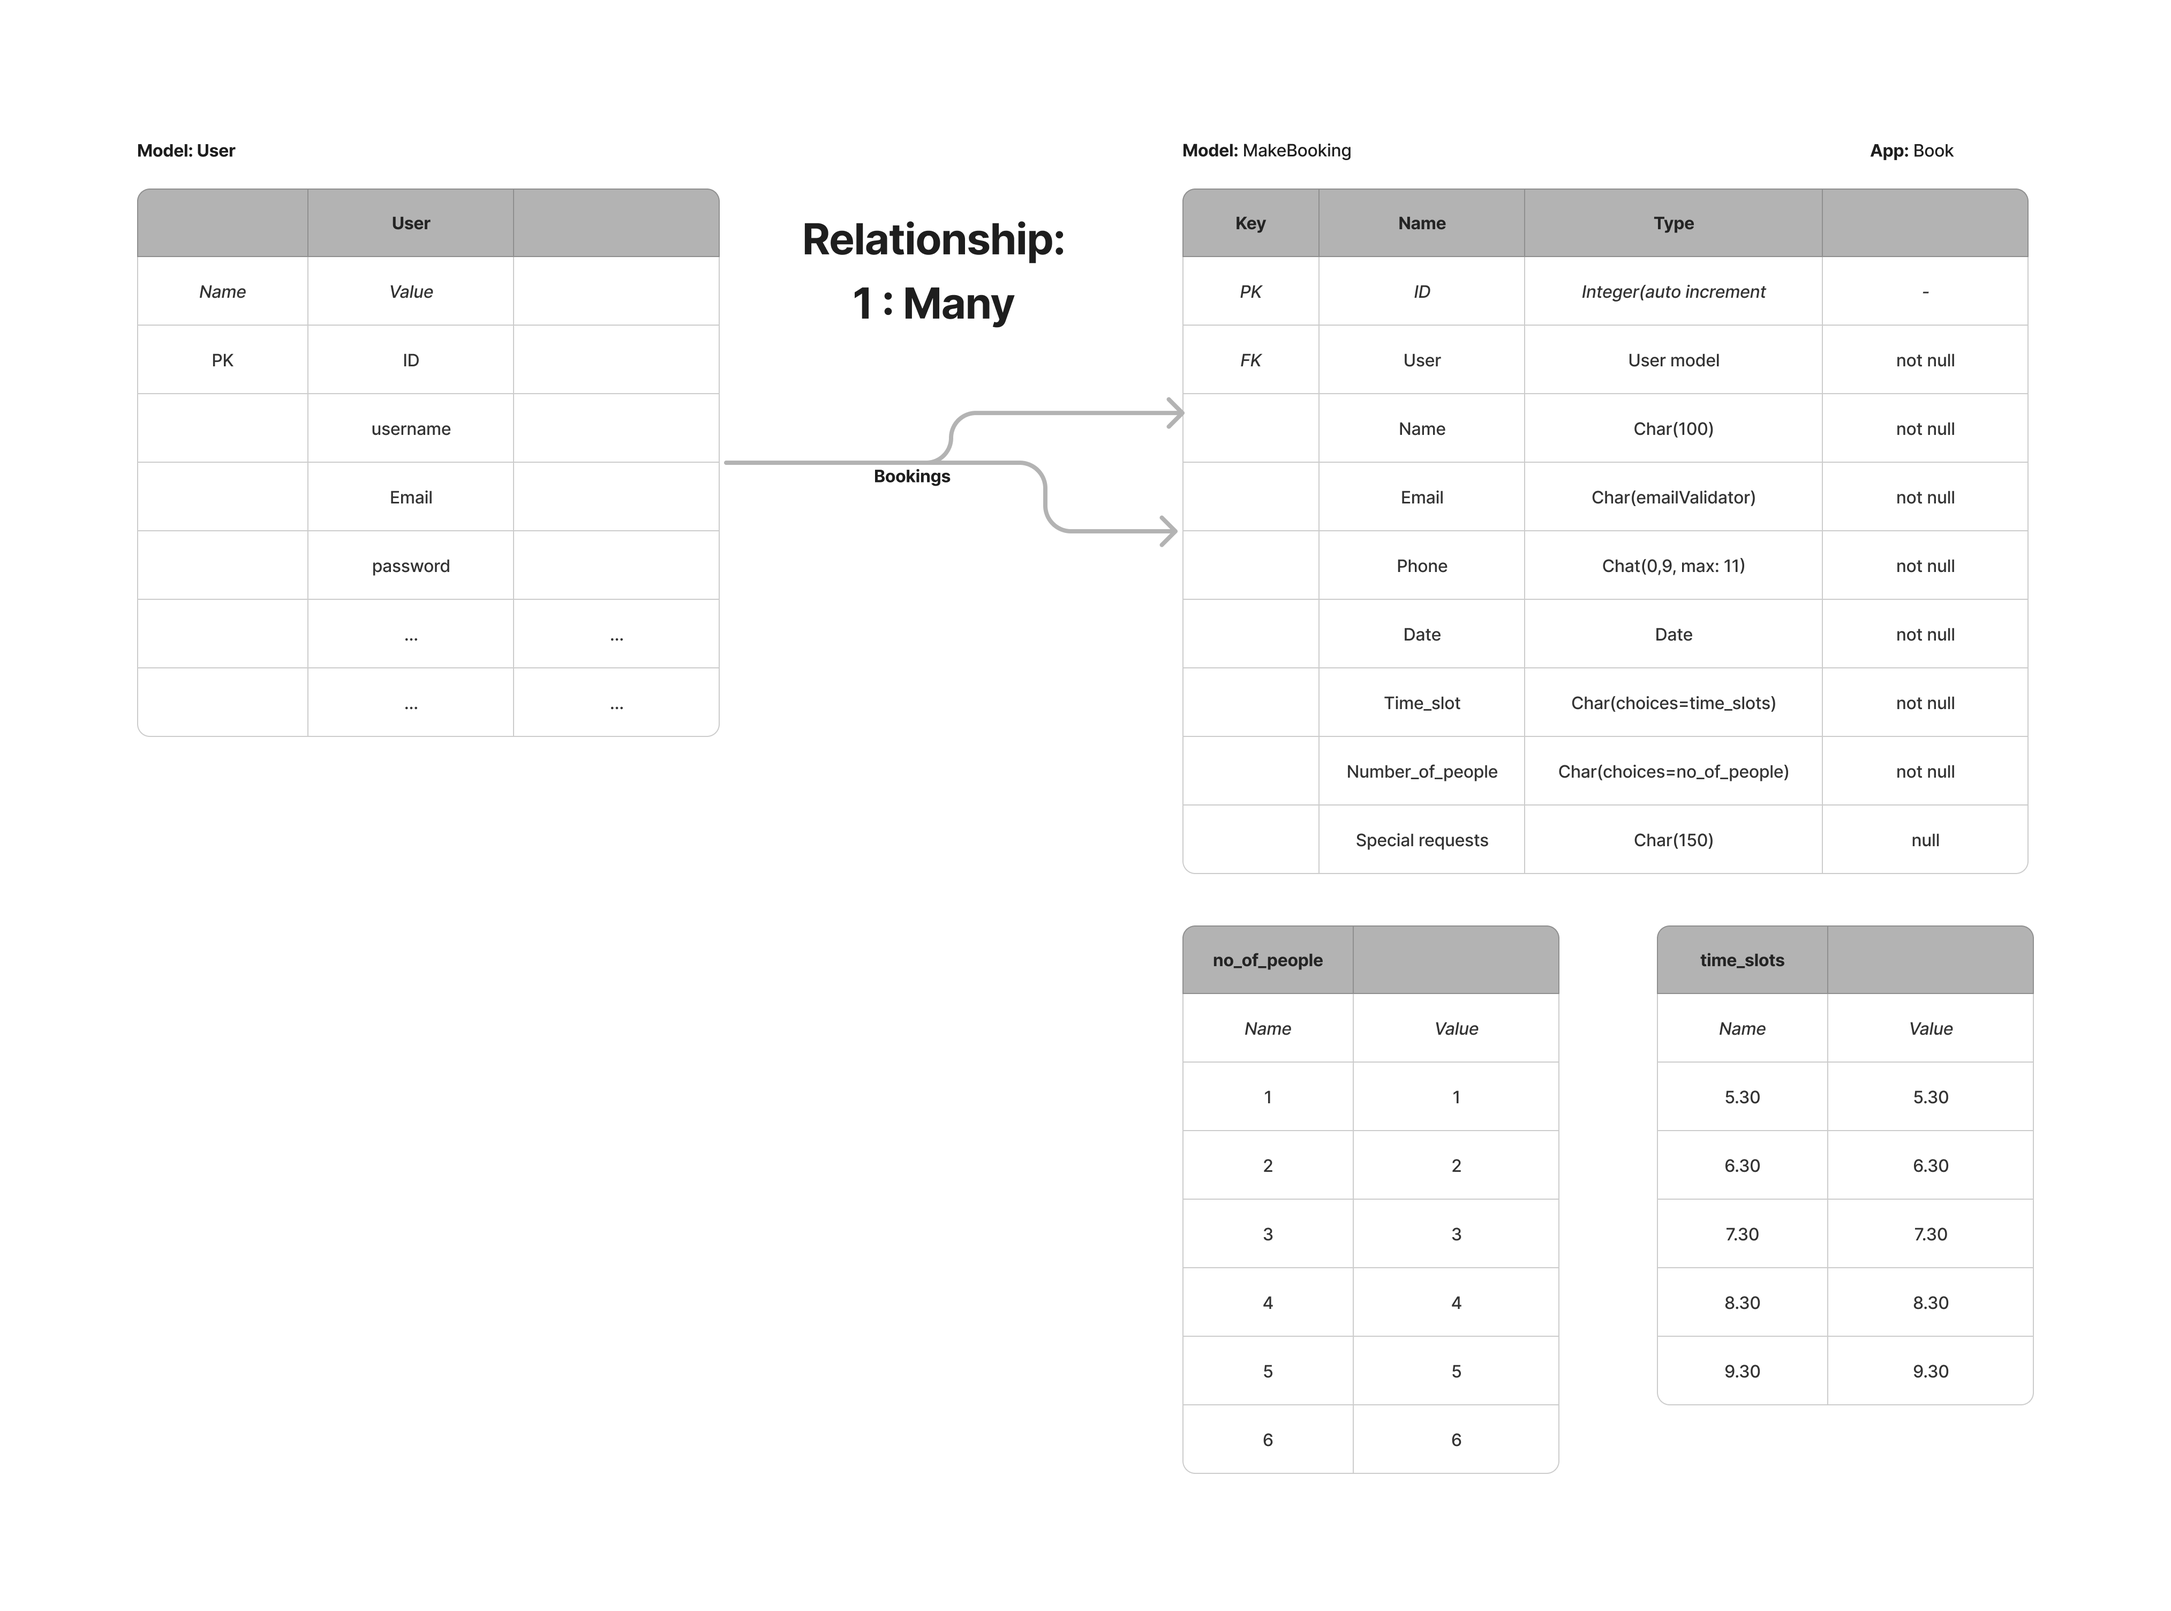
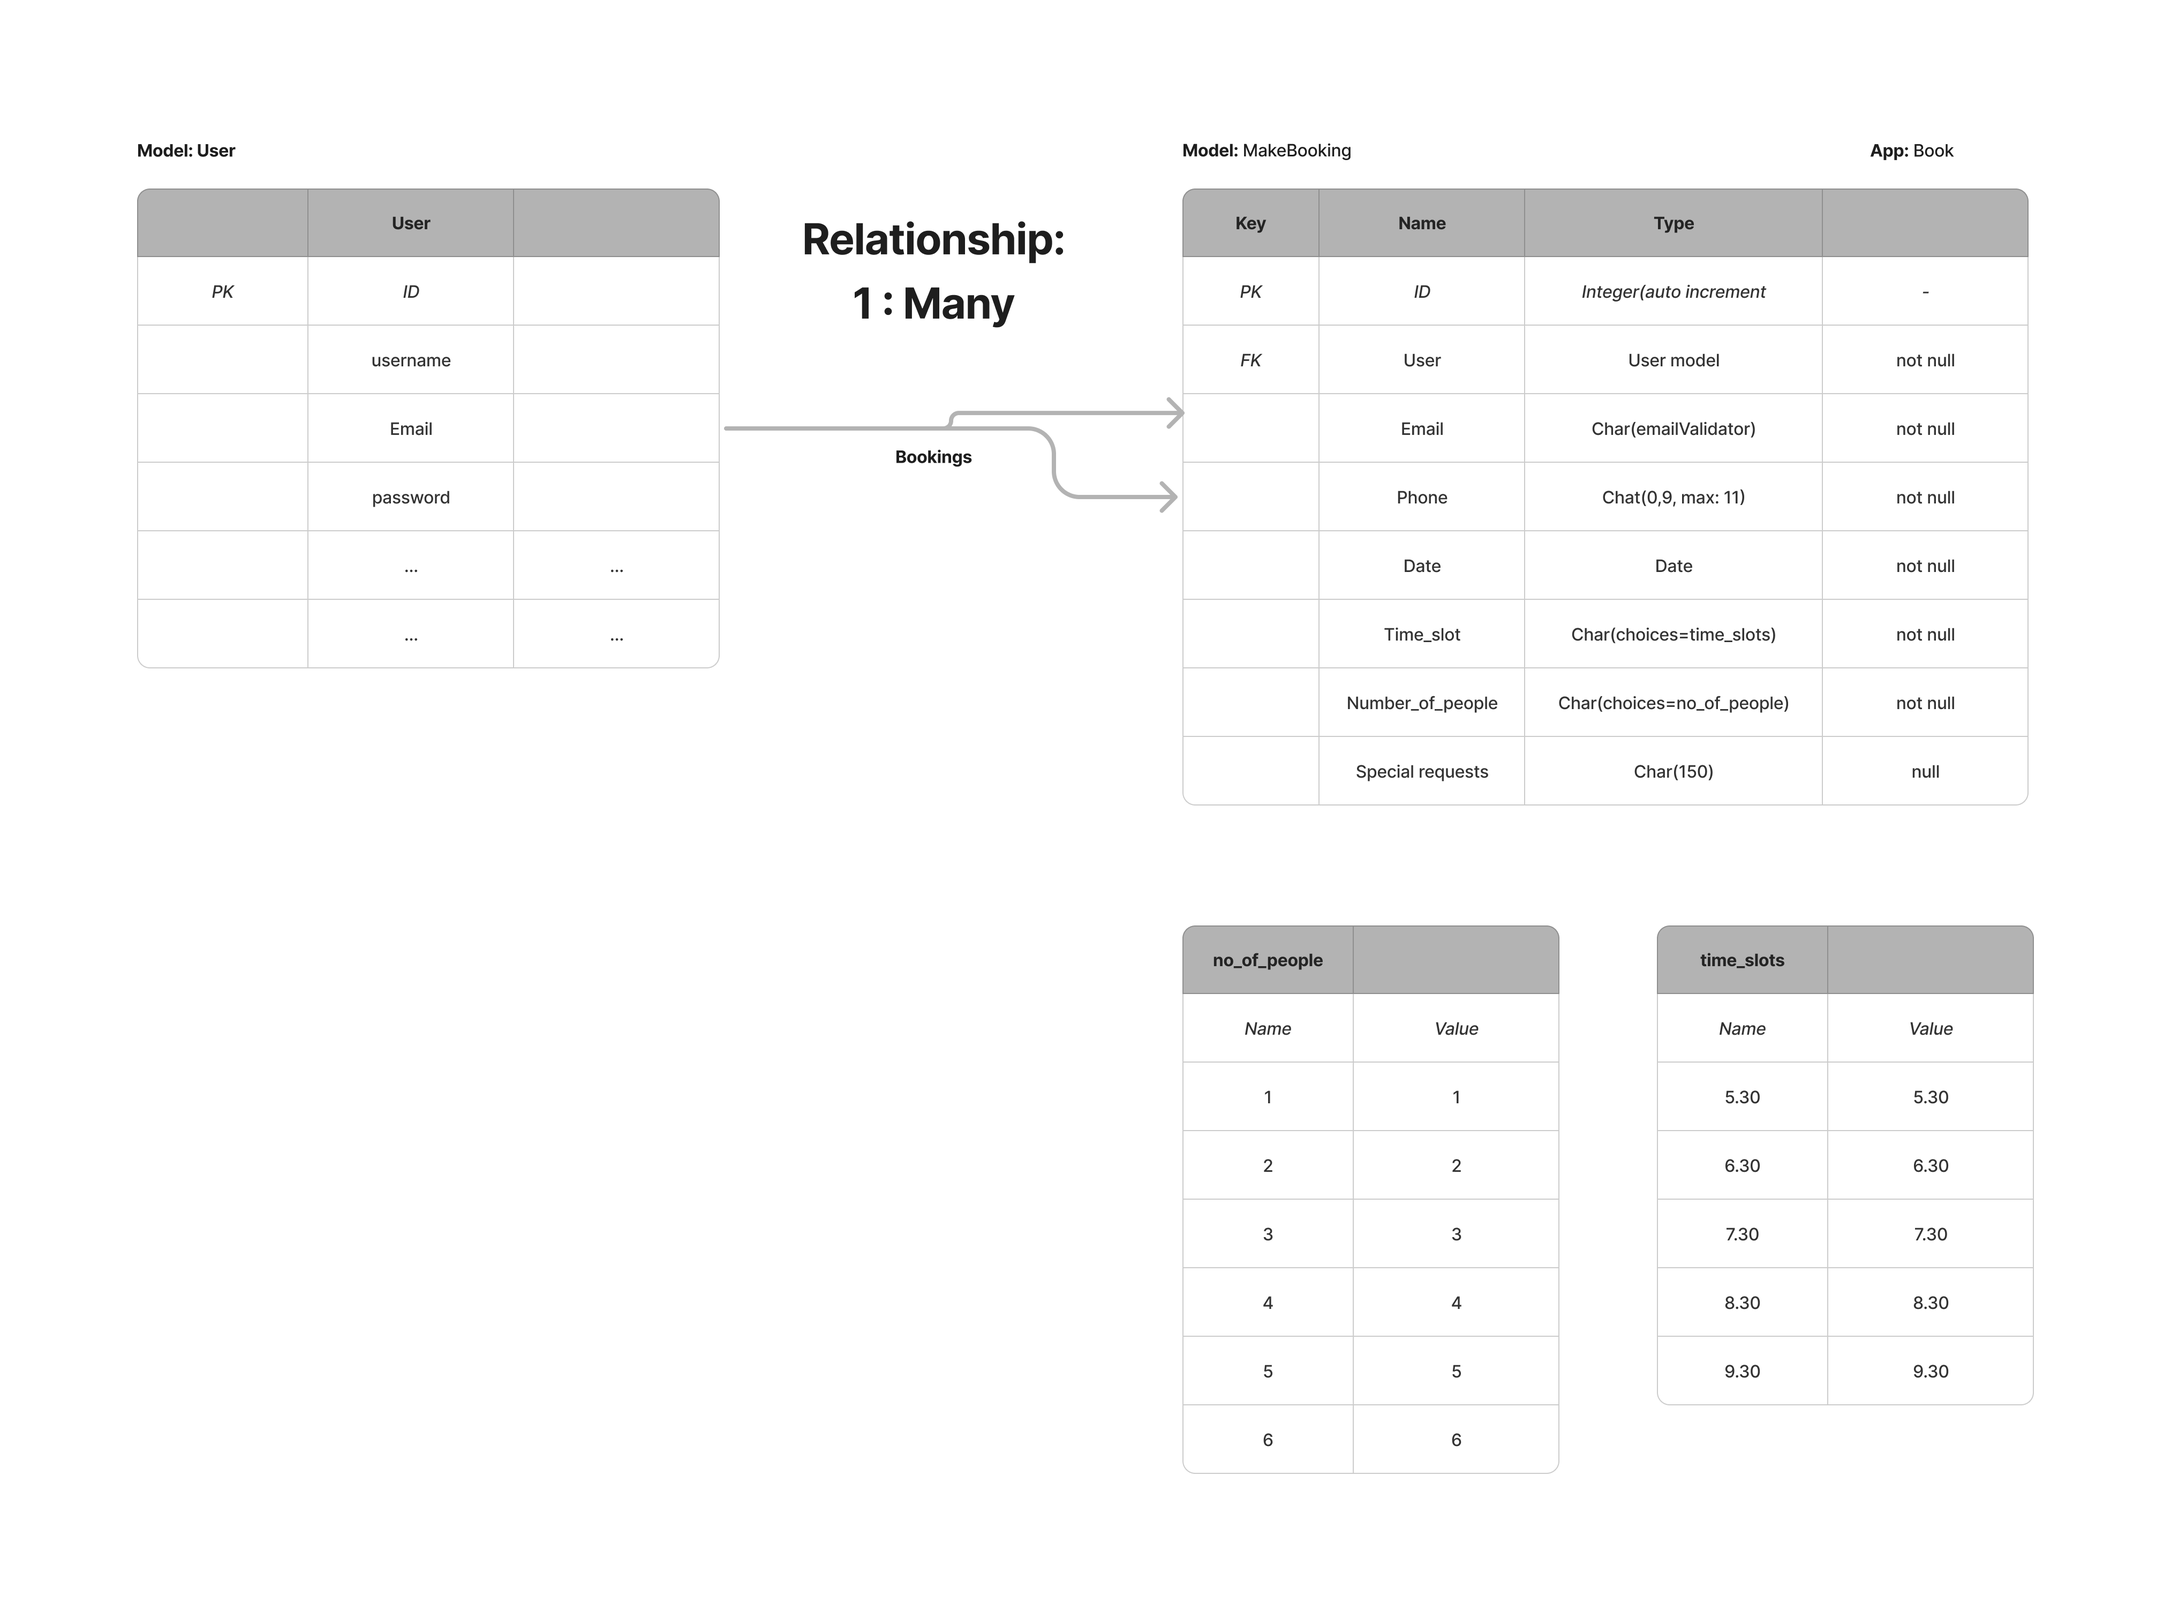
update readme: section project walkthrough

diff --git a/staticfiles/css/style.css b/staticfiles/css/style.css
@@ -80,6 +80,11 @@ nav li {
 
 }
 
+#current-promotions-hidden {
+  display: none;
+
+}
+
 #follow-on-menu a:link,
 #follow-on-booking a:link {
   text-decoration: none;

diff --git a/sultans/settings.py b/sultans/settings.py
@@ -31,7 +31,7 @@ TEMPLATES_DIR = os.path.join(BASE_DIR, "templates")
 SECRET_KEY = os.environ.get("SECRET_KEY")
 
 # SECURITY WARNING: don't run with debug turned on in production!
-DEBUG = True
+DEBUG = False
 
 ALLOWED_HOSTS = [
     "127.0.0.1",

diff --git a/README.md b/README.md
@@ -22,9 +22,12 @@ The intended purpose is to provide a seamless experience with a user-friendly me
 
 * Models and Entity Relationship Diagrams
 
-### [Main Page](#main-page-1)
+### [Project Walkthrough](#project-walkthrough-1)
 
-* Features
+* Home
+* Menu
+* Book
+* About us
 
 ### [Testing](#testing-1)
 
@@ -128,7 +131,7 @@ Each user below contains the initial story along with acceptance criteria. These
 - The manager should be able to login and be validated as such.
 - A link should be made available for the manager to update the menu.
 - The manager should be able to navigate to the menu section.
-- Each menu item has a name, an option description, price and status which should be filled in.
+- Each menu item has a name, an option description, price, and status which should be filled in.
   -   Status should allow for the item to be active/inactive from the menu.
 - The manager should be able to add new items to the menu.
 - The manager should be able to delete/update current items in the menu.
@@ -168,7 +171,7 @@ Each user below contains the initial story along with acceptance criteria. These
 
 ### Mind Map: Ideas
 
-Following on from the user stories, a initial mind map(pen to paper) was created to capture functionality of the site. The purpose of this was to provide a high-level understanding of how the user stories could be implemented:
+Following on from the user stories, an initial mind map(pen to paper) was created to capture functionality of the site. The purpose of this was to provide a high-level understanding of how the user stories could be implemented:
 
 ![Mindmap](readme-images/mind_map.jpeg)
 
@@ -255,14 +258,14 @@ The diagrams below map out the processes and paths taken based on the choices ma
 
 ![menu management](readme-images/process-maps/process_map_menu.png)
 
-These process maps have played a pivital part as a reference guide during the course of the development. They have allowed me to ensure that all requirements and acceptance criteria from the user stories have been satisfied. 
+These process maps have played an essential part as a reference guide during the development. They have allowed me to ensure that all requirements and acceptance criteria from the user stories have been satisfied. 
 
 [Back to Contents.](#table-of-contents)
 
 
 ### Models and Entity Relationship Diagrams (ERD's)
 
-The project is broken down in to four django models:
+The project is broken down into four django models:
 
 1. WelcomePromotion - for the promotions on the home page.
 2. MenuItem - for the menu items.
@@ -289,8 +292,8 @@ The MenuItem model contains the setup:
 
 - name: name of the item.
 - description: description of the item.
-- category: category choices( Starter, Main, Side, Dessert, Drink) for the item to placed in.
-- price: cost of the item.f
+- category: category choices( Starter, Main, Side, Dessert, Drink).
+- price: cost of the item.
 - added_on: automated date on when the item was added to the menu. 
 - active: whether the item is available or not.
 
@@ -303,8 +306,7 @@ The ERD schema for the MenuItem model is displayed below:
 
 The MakeBooking model contains the setup:
 
-- user: name of the requested user.
-- name: name for the booking(automatically assigned the requested user).
+- user: the individual creating the booking.
 - email: email for the booking.
 - phone: phone for the booking.
 - date: date of the booking.
@@ -331,11 +333,176 @@ The ERD schema for the AboutUs model is displayed below:
 
 [Back to Contents.](#table-of-contents)
 
-## Main page
+## Project Walkthrough
+
+For the purposes of this project, roles with specific permissions have been setup and are as follows,
+
+**manager:** The manager account has been setup so that they can:
+- add/update/delete promotions on the home page.
+- add/update/delete content on the about us page.
+- add/update/delete items on the menu.
+
+**admin:** The admin account has been setup so that they can:
+- add/update/delete promotions from the home page.
+
+**testuser:** The testuser account is a standard user, registered via the website that can:
+- add/update/delete their own bookings.
+- can only see their own bookings when logged in.
+
+For clarity, these accounts will be referenced throughout this document.
+
+**Please note:** The management of the menu, promotions and about us content is done using Django's admin panel. It is proposed as future developments to incorporate this into the front-end design reducing the need to use the admin panel.
+
+## Home
+
+The site presents a clean, elegant design with the aim of providing a welcoming atmosphere. The user is presented with a crisp layout, in an easy flowing colour scheme. The user's attention is captured by promotions available which are presented in an eye-catching way. The site is accessible on multiple devices giving a seamless user experience as illustrated below:
+
+![Responsive site](readme-images/project-walkthrough/responsive-all-devices.png)
+
+_**Image above generated using https://ui.dev/amiresponsive illustrating the responsiveness of the site.**_
 
 ### Features
+#### Navigation
+
+- The top of the page features a navigation menu with the site links available to the right
+- home, menu, book, about us, login, register links: these take the user to the respected pages. 
+- The navigation menu is available through the site and is styled reflecting which page the user is currently on(in bold) and which link is being hovered over (in red)
+
+![menu-bar-full](readme-images/project-walkthrough/menu_full.png)
+
+#### Menu - toggle
+ 
+ - Devices running in other views such as mobile are presented with a light version of the menu that can be expanded as need providing the same functionality as the full version:
+
+ ![toggle-menu](readme-images/project-walkthrough/menu_toggle.png)
+
+ Below the menu, the user is welcomed to the site and instantly made aware of any special promotions that are running at the restaurant:
+
+
+![home-welcome](readme-images/project-walkthrough/home_welcome.png)
+
+The homepage also provides additional user interaction by placing convenient links to the menu and the bookings page in a clear manner. The placement of these links highlights the ease of access to the services on offer:
+
+![follow-on-links](readme-images/project-walkthrough/follow_on_links.png)
+
+Should the admin add, update, or remove any current promotions via the admin panel, these changes are reflected instantly on the live home page:
+
+![no-promotions](readme-images/project-walkthrough/no-promotions.png)
+
+
+#### Footer
+
+- The footer contains links to the respected social media sites Facebook, X, Instagram, and YouTube using font awesome icons.
+- These links are all opened in a new tab.
+- The footer is available on all pages.
+
+![footer-links](readme-images/project-walkthrough/footer_links.png)
+
+**Please note:** There are currently no active social media pages for Sultan's. These links have been added in as place holders only. 
 
 [Back to Contents.](#table-of-contents)
+
+## Menu
+### Features
+
+Navigating to the menu page the user is presented with simple but effective layout. The menu has been broken down into the relevant categories to provide maximum user experience:
+
+![menu-page](readme-images/project-walkthrough/menu_page.png)
+
+The user has the option to select any heading as they please resulting in a fully responsive, interactive menu that provides the requested information. The menu items are listed with their name, description (if applicable) and price:
+
+![show-menu-open](readme-images/project-walkthrough/show_menu_open.png)
+
+There is an allergen note made available at the bottom of the menu, ensuring that any necessary information is available to user along with any dietary needs.
+
+Like the promotions on the home page, if the manager adds, updates, or removes any items from the menu, these changes are reflected instantly on the site. This ensures that that site always provides the latest version of the menu.
+
+[Back to Contents.](#table-of-contents)
+
+## Bookings
+### Features
+
+The booking page requires the user to be logged in. The purpose of this login is to ensure that only the logged in user can create, update, or delete a booking, which will be reflected within their account. The initial navigation to this page presents the follow:
+
+![alt text](readme-images/project-walkthrough/booking_not_logged_in.png)
+
+If the user has an account already with Sultan's, they are welcome to login. On successful login, they are re-directed to the bookings page under their account. 
+
+If the user is a new visitor to the site and does not have an account, they have a link available on the login page and the navigation menu to register:
+
+![register](readme-images/project-walkthrough/register.png)
+
+The registration process is simple; a username, optional email and a password that meets the criteria given. Once registered, the user is logged in as this registered user and automatically logged in:
+
+![logged-in](readme-images/project-walkthrough/booking_logged_in.png)
+
+**Please Note:** The assumption is now that the testuser has logged in for the remainder of this section.
+
+Once logged, the booking page features a form allowing the testuser to create a booking. The information collected on the form is:
+
+- Email - required field (in the correct format).
+- Phone - required field (in the correct format with a maximum of 11 numbers).
+- Date - required field ( from today onwards)
+- Time slot - required field.
+- Number of people - required field.
+- special requests - optional.
+
+![booking-form](readme-images/project-walkthrough/booking_form_empty.png)
+
+On submission of the form, the required fields are validated. If there are any errors, these are highlighted accordingly, prompting correction.
+
+In addition to the validation, there is a requirement for the date to be valid; it can only be from today onwards. Should the date be prior to today, an alert is given:
+
+![invalid-date](readme-images/project-walkthrough/invalid_date.png)
+
+[Back to Contents.](#table-of-contents)
+
+### Create Booking
+
+On a successful submission of the form, the site will perform an availability check to ensure that the date and time requested by testuser is available to book. If available, the booking will be created, testuser notified, and the booking details made available in testuser's account:
+
+![booking-created](readme-images/project-walkthrough/booking_created.png)
+
+If there is no availability, testuser is notified accordingly:
+
+![no-availability](readme-images/project-walkthrough/no-availability.png)
+
+The options to update and delete the booking are now available to testuser.
+
+### Update Booking
+
+To update the booking, the "Update" button is clicked which takes testuser to the update booking page. This page pre-populates the form with the current details make the process quick and easy:
+
+![update-booking](readme-images/project-walkthrough/update_booking.png)
+
+Testuser now can simply go in and update fields such as the number of people, or special requests, and save the form. If the date and time are to change, this would need to be checked for availability. If there is availability, the booking is updated,and an alert displayed:
+
+![booking-updated](readme-images/project-walkthrough/booking_updated.png)
+
+If there is no availability, similar to creating a booking, an alert is displayed. 
+
+Should testuser want to navigate back to the bookings page, and select another booking, there is a "click here" link available to do this. 
+
+### Delete Booking
+
+To delete the booking, the "Delete" button is selected which displays an alert asking for confirmation of the delete:
+
+![delete-confirm](readme-images/project-walkthrough/delete-confirm.png)
+
+Once the delete has been confirmed, the selected booking is deleted and no longer visible in testuser's account. An alert is also displayed confirming the delete:
+
+![booking-deleted](readme-images/project-walkthrough/booking_deleted.png)
+
+### Booking Management
+
+The manager has the ability to manage all the bookings that have been created. Once logged in, and authenticated as having access to the admin panel the manager will have total visiblity:
+
+![manager-booking-visbility](readme-images/project-walkthrough/manager_booking_visibility.png)
+
+From here, the manager is able to create, update or delete a booking. Once the neccessary action has been performed, the respected user's will show the changes.
+
+In addition to this, to allow the management of bookings to be as efficient as possible, the manager has the facility to search by username, email and phone. Filtering options are also available and include date and time slot which can be seen on the right of the screen.
+
 
 ## Testing
 
@@ -347,10 +514,9 @@ The ERD schema for the AboutUs model is displayed below:
 
 ### Manual Testing
 
-
-
-
 ## Future Developments
+
+
 
 
 
